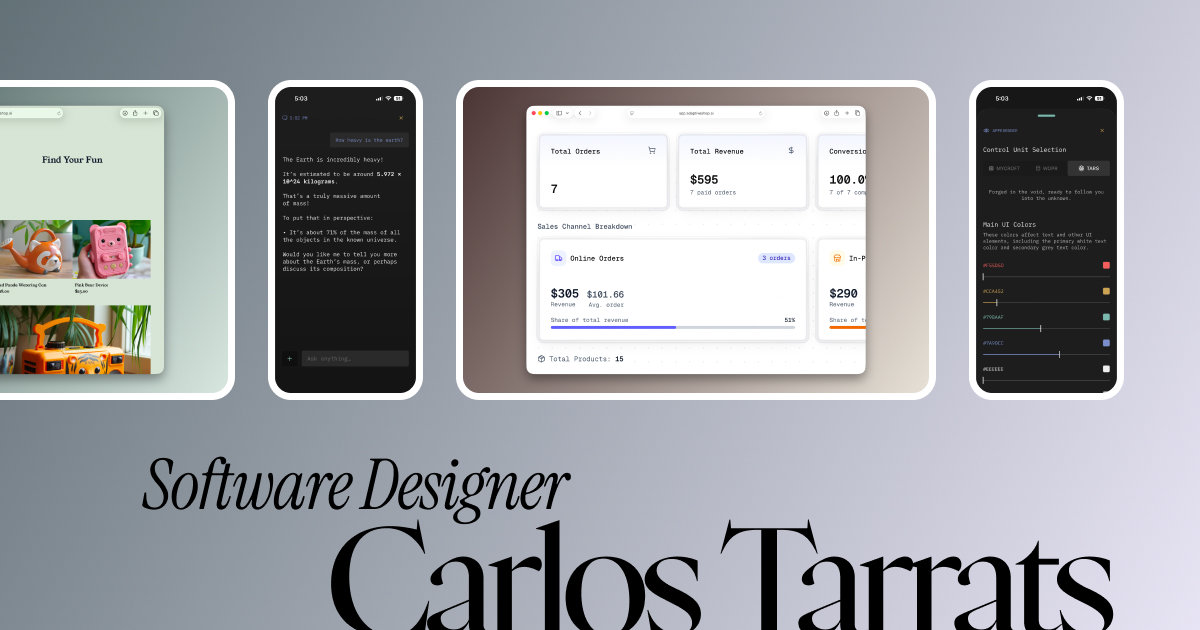
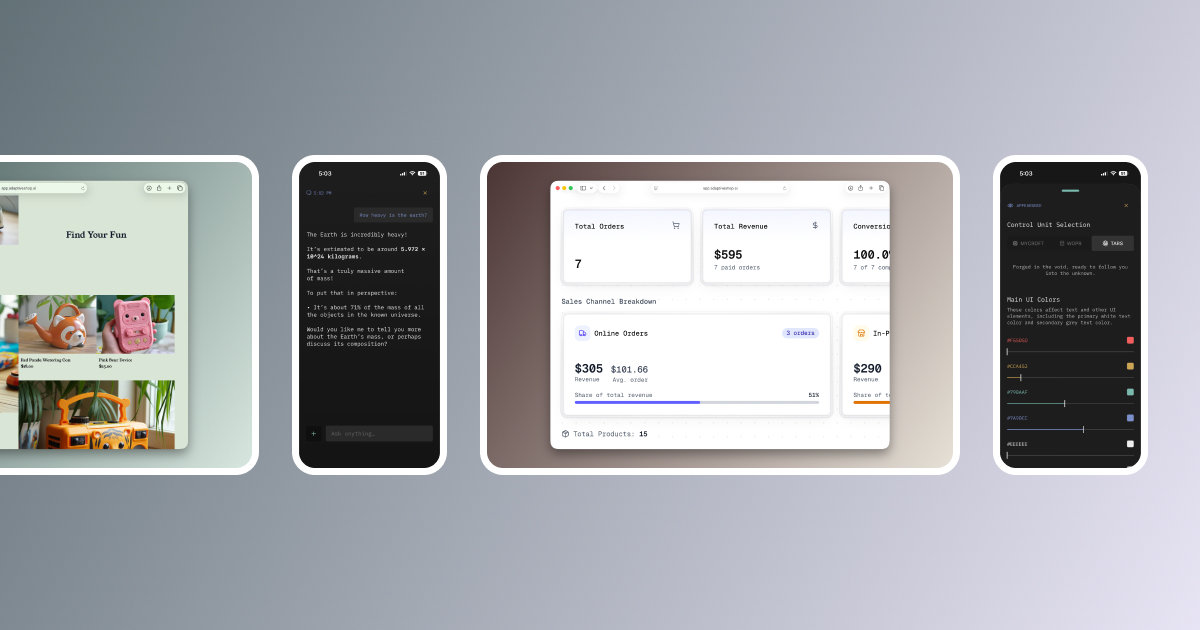
Update branding to Product Designer and refresh social image

diff --git a/index.html b/index.html
@@ -5,7 +5,7 @@
   <meta name="viewport" content="width=device-width, initial-scale=1.0">
   <meta http-equiv="Content-Security-Policy" content="default-src 'self'; script-src 'self' 'unsafe-inline'; style-src 'self' 'unsafe-inline' https://fonts.googleapis.com; font-src 'self' https://fonts.gstatic.com; img-src 'self' data:; frame-src https://player.vimeo.com;">
   <title>Carlos Tarrats - Product Designer</title>
-  <meta name="description" content="Software & Visual Designer simplifying complex systems. 0-1 product development, enterprise systems, and digital transformation.">
+  <meta name="description" content="Product Designer simplifying complex systems. 0-1 product development, enterprise systems, and digital transformation.">
 
   <!-- Canonical -->
   <link rel="canonical" href="https://carlostarrats.github.io/">
@@ -16,15 +16,15 @@
   <!-- Open Graph -->
   <meta property="og:type" content="website">
   <meta property="og:title" content="Carlos Tarrats - Product Designer">
-  <meta property="og:description" content="Software & Visual Designer simplifying complex systems. 0-1 product development, enterprise systems, and digital transformation.">
+  <meta property="og:description" content="Product Designer simplifying complex systems. 0-1 product development, enterprise systems, and digital transformation.">
   <meta property="og:url" content="https://carlostarrats.github.io/">
-  <meta property="og:image" content="https://carlostarrats.github.io/images/social.jpg?v=3">
+  <meta property="og:image" content="https://carlostarrats.github.io/images/social.jpg?v=4">
 
   <!-- Twitter Card -->
   <meta name="twitter:card" content="summary_large_image">
   <meta name="twitter:title" content="Carlos Tarrats - Product Designer">
-  <meta name="twitter:description" content="Software & Visual Designer simplifying complex systems. 0-1 product development, enterprise systems, and digital transformation.">
-  <meta name="twitter:image" content="https://carlostarrats.github.io/images/social.jpg?v=3">
+  <meta name="twitter:description" content="Product Designer simplifying complex systems. 0-1 product development, enterprise systems, and digital transformation.">
+  <meta name="twitter:image" content="https://carlostarrats.github.io/images/social.jpg?v=4">
 
   <!-- Fonts - preconnect for faster loading -->
   <link rel="preconnect" href="https://fonts.googleapis.com">
@@ -40,12 +40,12 @@
     "@context": "https://schema.org",
     "@type": "Person",
     "name": "Carlos Tarrats",
-    "jobTitle": "Software & Visual Designer",
+    "jobTitle": "Product Designer",
     "url": "https://carlostarrats.github.io",
     "sameAs": [
       "https://www.linkedin.com/in/carlos-t-b869016"
     ],
-    "description": "Software & Visual Designer simplifying complex systems. 0-1 product development, enterprise systems, and digital transformation."
+    "description": "Product Designer simplifying complex systems. 0-1 product development, enterprise systems, and digital transformation."
   }
   </script>
 </head>
@@ -130,7 +130,7 @@
   <main id="main-content" class="page">
     <!-- Hero Section -->
     <div class="hero">
-      <h1>Hi! I'm Carlos, a Software & Visual Designer</h1>
+      <h1>Hi! I'm Carlos, a Product Designer</h1>
       <p class="portfolio-line"><a href="#" class="label italic contact-link" id="contact-link">Contact</a> <a href="https://www.linkedin.com/in/carlos-t-b869016" class="linkedin-link" aria-label="LinkedIn profile" target="_blank" rel="noopener"><svg width="24" height="24" viewBox="0 0 24 24" fill="currentColor"><path d="M20.447 20.452h-3.554v-5.569c0-1.328-.027-3.037-1.852-3.037-1.853 0-2.136 1.445-2.136 2.939v5.667H9.351V9h3.414v1.561h.046c.477-.9 1.637-1.85 3.37-1.85 3.601 0 4.267 2.37 4.267 5.455v6.286zM5.337 7.433c-1.144 0-2.063-.926-2.063-2.065 0-1.138.92-2.063 2.063-2.063 1.14 0 2.064.925 2.064 2.063 0 1.139-.925 2.065-2.064 2.065zm1.782 13.019H3.555V9h3.564v11.452zM22.225 0H1.771C.792 0 0 .774 0 1.729v20.542C0 23.227.792 24 1.771 24h20.451C23.2 24 24 23.227 24 22.271V1.729C24 .774 23.2 0 22.222 0h.003z"/></svg></a> <span class="selected-projects-text">Selected Projects:</span></p>
       <p class="tagline">Simplifying Complex Systems</p>
       <p class="location-line">Currently in Los Angeles, CA</p>
